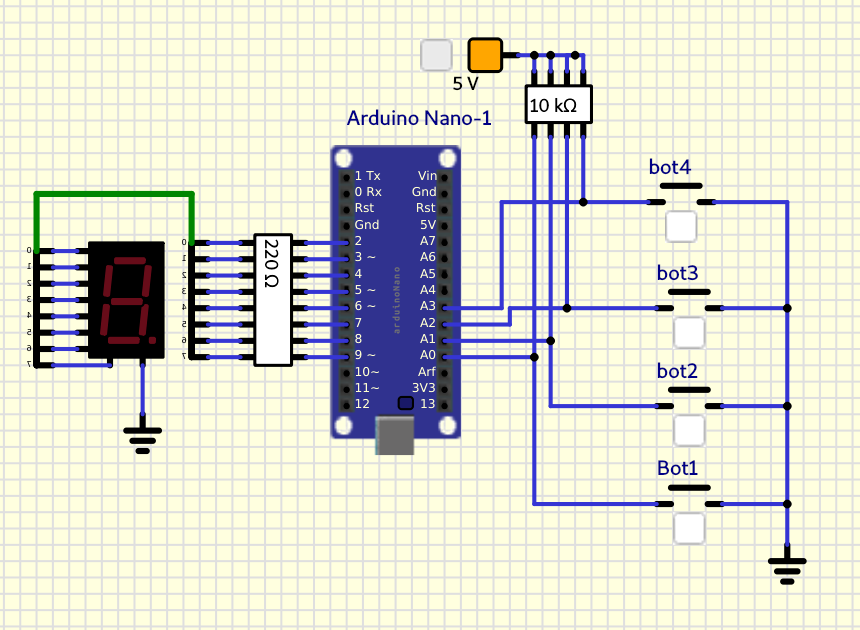
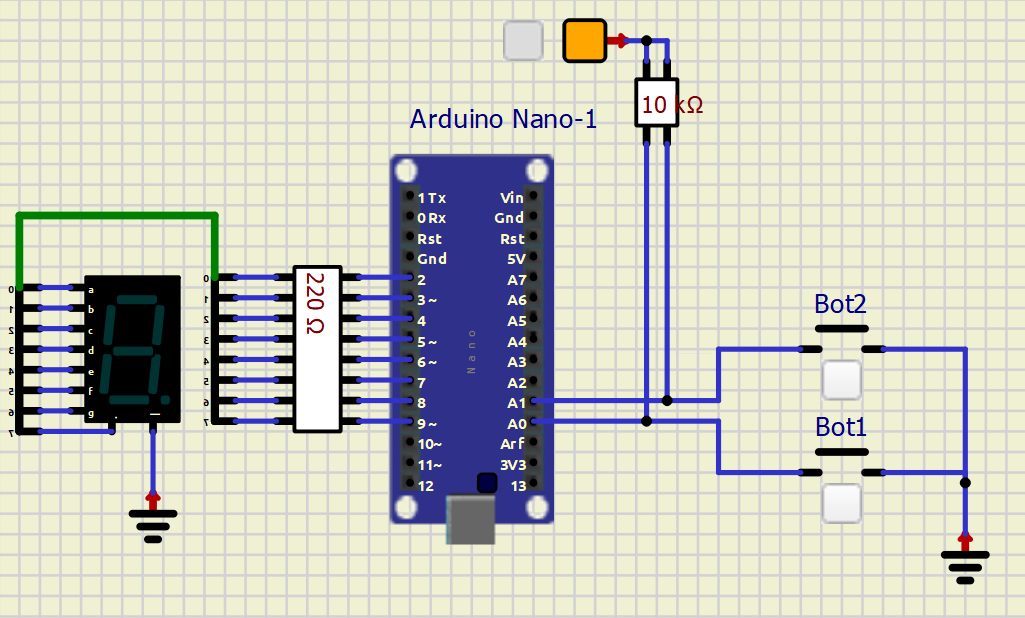
Tp 4 Actualizado

diff --git a/src/main.cpp b/src/main.cpp
@@ -93,17 +93,24 @@ Tabla de conversion bcd a 7 segmentos cátodo común
 */
 
 //                                FEDCBA G
-uint8_t Tabla_Digitos_7seg[] = {0b11111100,//0	
-								0b00011000,//1	
-								0b01101101,//2	
-								0b00111101,//3	
-								0b10011001,//4	
-								0b10110101,//5	
-								0b11110101,//6	
-								0b00011100,//7	
-								0b11111101,//8	
-								0b10011101 //9	
-								};
+uint8_t Tabla_Digitos_7seg[] = {0b11111100, // 0
+                                0b00011000, // 1
+                                0b01101101, // 2
+                                0b00111101, // 3
+                                0b10011001, // 4
+                                0b10110101, // 5
+                                0b11110101, // 6
+                                0b00011100, // 7
+                                0b11111101, // 8
+                                0b10011101, // 9
+                                0b11011101, // a
+                                0b11110001, // b
+                                0b11100100, // c
+                                0b01111001, // d      
+                                0b11100101, // e
+                                0b11000101  // f
+};
+
 
 // static uint8_t Tabla_Digitos_BCD_7seg[ ] = { 0, 1, 2, 3, 4, 5, 6, 7, 8, 9};
 
@@ -190,23 +197,26 @@ int main(void)
 		
 		if (bot1 == 0)
 		{
-			_delay_ms(100);
+			_delay_ms(150);
 			if (bot1 == 0)
 			{
 				cont++;
-				cont %=10;
+				if (cont>15)
+				{
+					cont = 0;
+				}
 			}
 		}
 
 		if (bot2 == 0)
 		{
-			_delay_ms(100);
+			_delay_ms(150);
 			if (bot2 == 0)
 			{
 				cont--;
 				if (cont<0)
 				{
-					cont = 9;
+					cont = 15;
 				}
 			}
 		}

diff --git a/README.md b/README.md
@@ -49,9 +49,9 @@ PB1 -> SEGMENTO DP
 
 ![Circuito](circuito.png "circuito")
 
----
+----
 
-#INFORME
+# INFORME
 
 ``` C
 #define bot1 ((PINC>>PC0)&0x01)
@@ -137,3 +137,7 @@ PORTD= (PORTD & 0b00000011)|(Tabla_Digitos_7seg[cont]&0b11111100);
 PORTB= (PORTB & 0b11111100)|(Tabla_Digitos_7seg[cont]&0b00000011);
 ```
 Gracias a estas dos lineas de código se van a enviar los numeros del contador al display usando la tabla de digitos con respecto al contador(cont).
+
+## Diagrama
+
+![Diagrama](diagrama.svg "diagrama")
